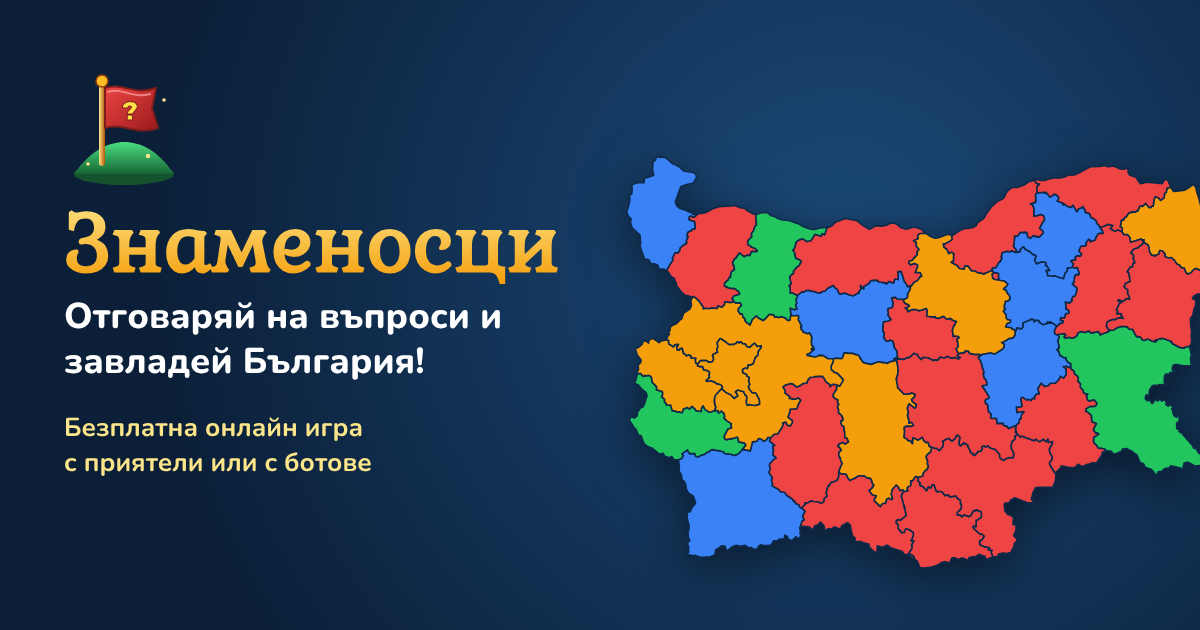
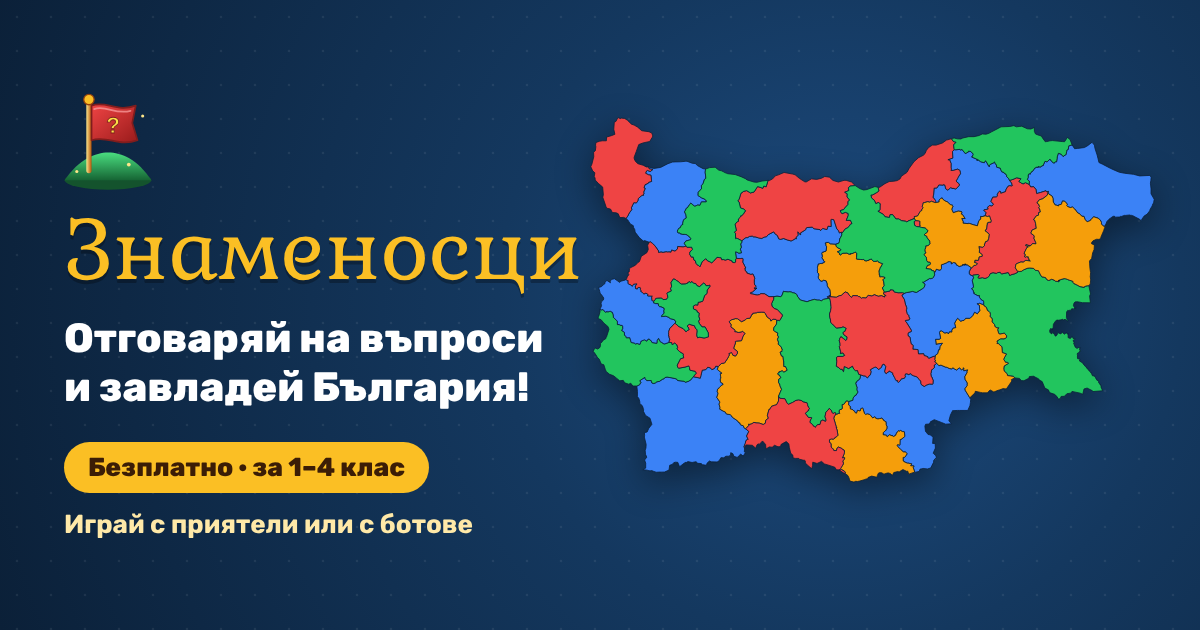
Нова картинка за споделяне на линка: цяла България се вижда, по-едър текст, и скрипт за квадратна реклама
Старата картинка беше с отрязана карта отдясно и дребен текст.
tools/build_share.js рисува картинката от data/map.json.

Claude-Session: https://claude.ai/code/session_01USq4U96sASd5FGAiHjsWF4

diff --git a/tools/build_share.js b/tools/build_share.js
@@ -1,0 +1,119 @@
+// Картинката, която се вижда, когато някой сподели линка на Знаменосци (public/share.png, 1200×630),
+// и квадратна картинка за реклама във Facebook/Instagram.
+// Картата се рисува от data/map.json, така че цялата България се вижда, без отрязани краища.
+//
+// Пускане (от главната папка):
+//   NODE_PATH=<път до playwright> node tools/build_share.js                 -> public/share.png
+//   NODE_PATH=<път до playwright> node tools/build_share.js --ad обява.png  -> и квадратна картинка за реклама
+// Ако Chromium не се намира сам, задай CHROME=/път/до/chrome.
+const fs = require('fs');
+const path = require('path');
+const { chromium } = require('playwright');
+
+const ROOT = path.join(__dirname, '..');
+const map = JSON.parse(fs.readFileSync(path.join(ROOT, 'data', 'map.json'), 'utf8'));
+const FONTS = 'file://' + path.join(ROOT, 'public', 'fonts', 'fonts.css');
+const LOGO = 'file://' + path.join(ROOT, 'public', 'logo.svg');
+const COLORS = ['#ef4444', '#3b82f6', '#22c55e', '#f59e0b'];   // същите като в играта: червено, синьо, зелено, оранжево
+
+// Оцветяване с 4 цвята така, че съседните области никога да не са еднакви (търсене с връщане назад)
+function colour(regions) {
+  const order = [...regions].sort((a, b) => b.neighbors.length - a.neighbors.length).map((r) => r.id);
+  const nb = Object.fromEntries(regions.map((r) => [r.id, r.neighbors]));
+  const col = {};
+  const go = (i) => {
+    if (i === order.length) return true;
+    const id = order[i];
+    for (let c = 0; c < COLORS.length; c++) {
+      if (nb[id].some((n) => col[n] === c)) continue;
+      col[id] = c;
+      if (go(i + 1)) return true;
+      delete col[id];
+    }
+    return false;
+  };
+  if (!go(0)) throw new Error('Не става с 4 цвята');
+  return col;
+}
+const col = colour(map.regions);
+
+function mapSvg(width, highlight) {
+  const h = Math.round(width * map.height / map.width);
+  const paths = map.regions.map((r) => {
+    const hl = r.id === highlight;
+    return `<path d="${r.path}" fill="${hl ? '#fffbe8' : COLORS[col[r.id]]}" stroke="${hl ? '#7c2d12' : '#0b2038'}" stroke-width="${hl ? 3 : 1.4}" stroke-linejoin="round"/>`;
+  });
+  // областта, която се търси, се рисува последна, за да не я закрива рамката на съседите
+  const hlR = map.regions.find((r) => r.id === highlight);
+  const mark = hlR ? `<g transform="translate(${hlR.cx} ${hlR.cy})"><circle r="30" fill="#fbbf24" stroke="#7c2d12" stroke-width="4"/><text y="14" text-anchor="middle" font-family="Rubik" font-weight="900" font-size="42" fill="#7c2d12">?</text></g>` : '';
+  const ordered = hlR ? [...paths.filter((_, i) => map.regions[i].id !== highlight), paths[map.regions.indexOf(hlR)]] : paths;
+  return `<svg width="${width}" height="${h}" viewBox="0 0 ${map.width} ${map.height}" style="filter: drop-shadow(0 10px 18px rgba(0,0,0,.45))">${ordered.join('')}${mark}</svg>`;
+}
+
+const BASE = `
+  <link rel="stylesheet" href="${FONTS}">
+  <style>
+    * { box-sizing: border-box; margin: 0; padding: 0; }
+    body { background: radial-gradient(circle at 70% 48%, #1d4c80 0%, #14385f 38%, #0b2038 100%); color: #fff; font-family: "Rubik", sans-serif; overflow: hidden; position: relative; }
+    .brand { font-family: "Kurale", serif; color: #fbbf24; line-height: 1; text-shadow: 0 4px 0 rgba(0, 0, 0, .28); }
+    .pill { display: inline-block; background: #fbbf24; color: #3b1d06; font-weight: 800; border-radius: 999px; }
+    .dots { position: absolute; inset: 0; background-image: radial-gradient(rgba(255,255,255,.07) 1.4px, transparent 1.6px); background-size: 34px 34px; }
+  </style>`;
+
+// Картинка за споделяне на линк, 1200×630
+const SHARE = `<!doctype html><html><head><meta charset="utf-8">${BASE}
+  <style>
+    body { width: 1200px; height: 630px; }
+    .col { position: absolute; left: 64px; top: 0; bottom: 0; width: 500px; display: flex; flex-direction: column; justify-content: center; }
+    .logo { width: 104px; height: 104px; margin: 0 0 6px -8px; }
+    .brand { font-size: 92px; }
+    .tag { font-weight: 800; font-size: 41px; line-height: 1.2; margin-top: 22px; }
+    .pill { font-size: 26px; padding: 10px 24px; margin-top: 30px; align-self: flex-start; }
+    .sub { font-weight: 500; font-size: 26px; color: #ffe9a8; margin-top: 16px; }
+    .map { position: absolute; left: 585px; top: 112px; }
+  </style></head><body><div class="dots"></div>
+  <div class="col"><img class="logo" src="${LOGO}">
+    <div class="brand">Знаменосци</div>
+    <div class="tag">Отговаряй на въпроси и завладей България!</div>
+    <div class="pill">Безплатно · за 1–4 клас</div>
+    <div class="sub">Играй с приятели или с ботове</div></div>
+  <div class="map">${mapSvg(575)}</div></body></html>`;
+
+// Квадратна реклама, 1080×1080: въпросът към родителя е на самата картинка
+const AD = `<!doctype html><html><head><meta charset="utf-8">${BASE}
+  <style>
+    body { width: 1080px; height: 1080px; background: radial-gradient(circle at 50% 62%, #1d4c80 0%, #14385f 42%, #0b2038 100%); }
+    .top { position: absolute; left: 60px; top: 42px; display: flex; align-items: center; gap: 14px; }
+    .top img { width: 70px; height: 70px; }
+    .top .brand { font-size: 48px; }
+    h1 { position: absolute; left: 60px; right: 60px; top: 132px; font-family: "Kurale", serif; font-weight: 400; font-size: 118px; line-height: 1; text-shadow: 0 5px 0 rgba(0, 0, 0, .3); }
+    .sub { position: absolute; left: 60px; right: 60px; top: 262px; font-weight: 700; font-size: 42px; color: #ffe9a8; }
+    .map { position: absolute; left: 60px; top: 340px; }
+    .pill { position: absolute; left: 60px; top: 972px; font-size: 38px; padding: 12px 34px; }
+  </style></head><body><div class="dots"></div>
+  <div class="top"><img src="${LOGO}"><div class="brand">Знаменосци</div></div>
+  <h1>Къде е Пловдив?</h1>
+  <div class="sub">Игра с карта на България за 1.–4. клас</div>
+  <div class="map">${mapSvg(960, 'PDV')}</div>
+  <div class="pill">Безплатно · в браузъра · без сваляне</div></body></html>`;
+
+(async () => {
+  const adIdx = process.argv.indexOf('--ad');
+  const adOut = adIdx > 0 ? path.resolve(process.argv[adIdx + 1]) : null;
+  const browser = await chromium.launch({ executablePath: process.env.CHROME || undefined });
+  const shoot = async (html, w, h, out) => {
+    const page = await browser.newPage({ viewport: { width: w, height: h } });
+    const tmp = path.join(require('os').tmpdir(), 'qz-share-' + process.pid + '.html');
+    fs.writeFileSync(tmp, html);
+    await page.goto('file://' + tmp);
+    await page.evaluate(() => document.fonts.ready);
+    await page.waitForTimeout(300);
+    await page.screenshot({ path: out });
+    fs.unlinkSync(tmp);
+    await page.close();
+    console.log('записано', out, w + '×' + h);
+  };
+  await shoot(SHARE, 1200, 630, path.join(ROOT, 'public', 'share.png'));
+  if (adOut) await shoot(AD, 1080, 1080, adOut);
+  await browser.close();
+})();
